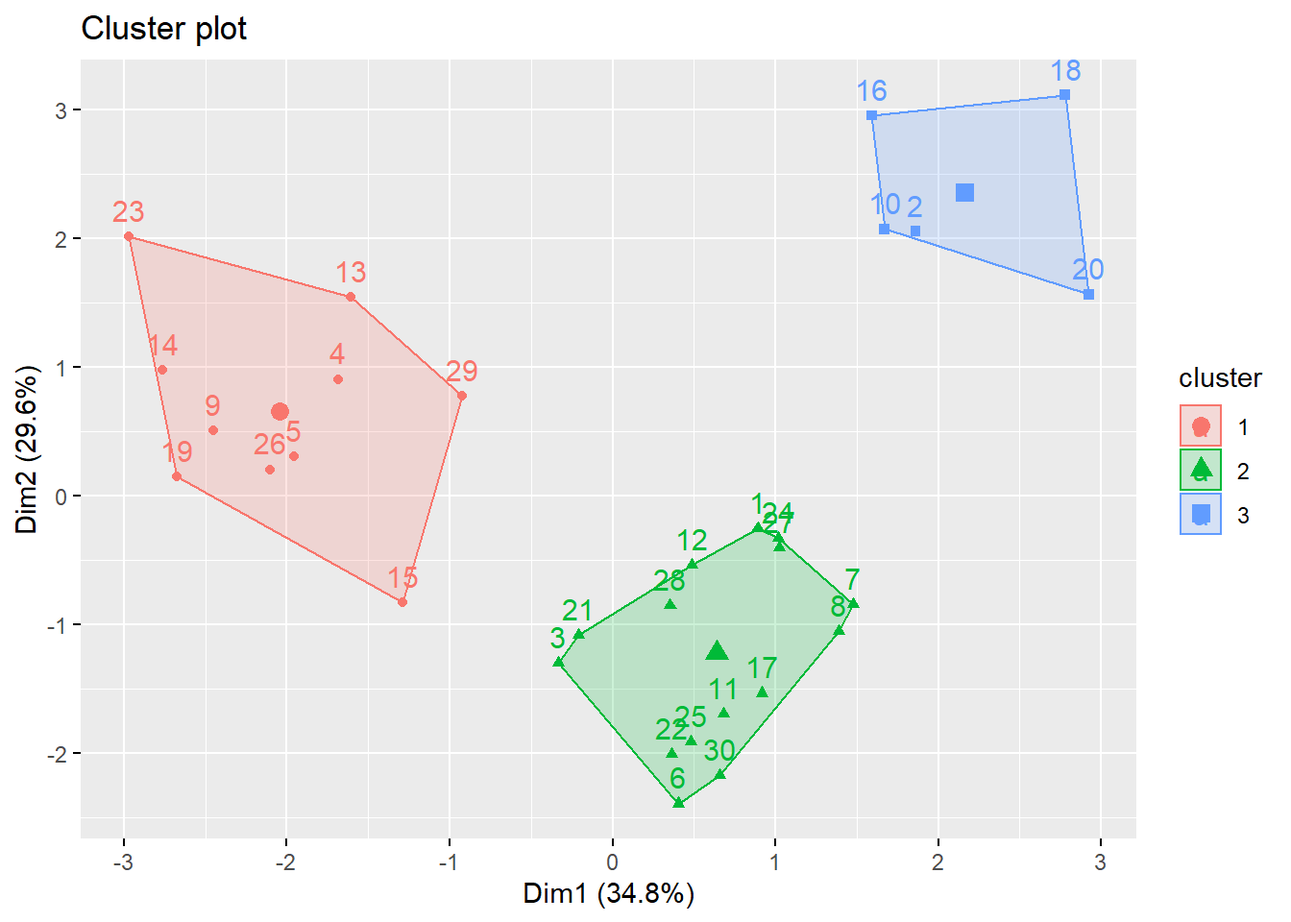
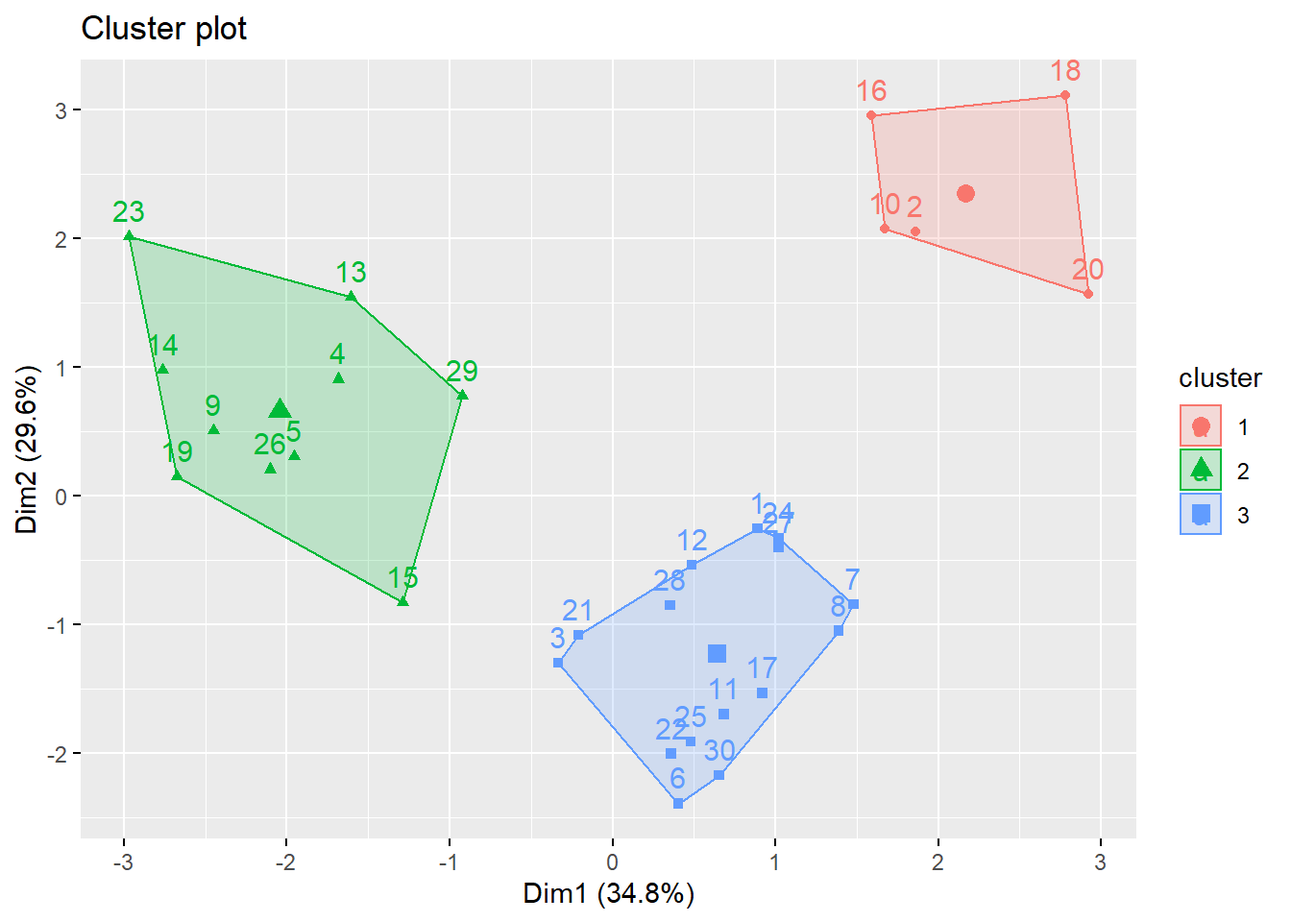
updatao em homenagem ao nosso amigao ygor

Changed region(s): [[0.0938, 0.2188, 0.375, 0.6562], [0.4062, 0.5312, 0.6875, 0.875], [0.6562, 0.0625, 0.875, 0.3125]]

diff --git a/docs/02_data_preparation.html b/docs/02_data_preparation.html
@@ -531,6 +531,111 @@ $(document).ready(function () {
 <a class="sourceLine" id="cb8-41" title="41">  <span class="kw">return</span>(output)</a>
 <a class="sourceLine" id="cb8-42" title="42">  </a>
 <a class="sourceLine" id="cb8-43" title="43">}</a></code></pre></div>
+<p>A função abaixo foi criada para exibir as estatísticas das respostas do dataset.</p>
+<div class="sourceCode" id="cb9"><pre class="sourceCode r"><code class="sourceCode r"><a class="sourceLine" id="cb9-1" title="1">plot_exploratory_analysis &lt;-<span class="st"> </span><span class="cf">function</span>(target_data) {</a>
+<a class="sourceLine" id="cb9-2" title="2">  </a>
+<a class="sourceLine" id="cb9-3" title="3">  ds_aceitar_convite  &lt;-<span class="st"> </span>target_data <span class="op">%&gt;%</span><span class="st"> </span></a>
+<a class="sourceLine" id="cb9-4" title="4"><span class="st">    </span><span class="kw">group_by</span>(<span class="dt">escala =</span> aceitar_convite) <span class="op">%&gt;%</span><span class="st"> </span></a>
+<a class="sourceLine" id="cb9-5" title="5"><span class="st">    </span><span class="kw">summarize</span>(<span class="dt">total_aceitar_convite =</span> <span class="kw">n</span>()) </a>
+<a class="sourceLine" id="cb9-6" title="6">  ds_gostar_doces     &lt;-<span class="st"> </span>target_data <span class="op">%&gt;%</span><span class="st"> </span></a>
+<a class="sourceLine" id="cb9-7" title="7"><span class="st">    </span><span class="kw">group_by</span>(<span class="dt">escala =</span> gostar_doces) <span class="op">%&gt;%</span><span class="st"> </span></a>
+<a class="sourceLine" id="cb9-8" title="8"><span class="st">    </span><span class="kw">summarize</span>(<span class="dt">total_gostar_doces =</span> <span class="kw">n</span>()) </a>
+<a class="sourceLine" id="cb9-9" title="9">  ds_emocionar        &lt;-<span class="st"> </span>target_data <span class="op">%&gt;%</span><span class="st"> </span></a>
+<a class="sourceLine" id="cb9-10" title="10"><span class="st">    </span><span class="kw">group_by</span>(<span class="dt">escala =</span> emocionar) <span class="op">%&gt;%</span><span class="st"> </span></a>
+<a class="sourceLine" id="cb9-11" title="11"><span class="st">    </span><span class="kw">summarize</span>(<span class="dt">total_emocionar =</span> <span class="kw">n</span>()) </a>
+<a class="sourceLine" id="cb9-12" title="12">  ds_conhecer_pessoas &lt;-<span class="st"> </span>target_data <span class="op">%&gt;%</span><span class="st"> </span></a>
+<a class="sourceLine" id="cb9-13" title="13"><span class="st">    </span><span class="kw">group_by</span>(<span class="dt">escala =</span> conhecer_pessoas) <span class="op">%&gt;%</span><span class="st"> </span></a>
+<a class="sourceLine" id="cb9-14" title="14"><span class="st">    </span><span class="kw">summarize</span>(<span class="dt">total_conhecer_pessoas =</span> <span class="kw">n</span>()) </a>
+<a class="sourceLine" id="cb9-15" title="15">  ds_diversao_amigos  &lt;-<span class="st"> </span>target_data <span class="op">%&gt;%</span><span class="st"> </span></a>
+<a class="sourceLine" id="cb9-16" title="16"><span class="st">    </span><span class="kw">group_by</span>(<span class="dt">escala =</span> diversao_amigos) <span class="op">%&gt;%</span><span class="st"> </span></a>
+<a class="sourceLine" id="cb9-17" title="17"><span class="st">    </span><span class="kw">summarize</span>(<span class="dt">total_diversao_amigos =</span> <span class="kw">n</span>()) </a>
+<a class="sourceLine" id="cb9-18" title="18">  ds_gostar_fotos     &lt;-<span class="st"> </span>target_data <span class="op">%&gt;%</span><span class="st"> </span></a>
+<a class="sourceLine" id="cb9-19" title="19"><span class="st">    </span><span class="kw">group_by</span>(<span class="dt">escala =</span> gostar_fotos) <span class="op">%&gt;%</span><span class="st"> </span></a>
+<a class="sourceLine" id="cb9-20" title="20"><span class="st">    </span><span class="kw">summarize</span>(<span class="dt">total_gostar_fotos =</span> <span class="kw">n</span>()) </a>
+<a class="sourceLine" id="cb9-21" title="21">  ds_cansar_cerimonia &lt;-<span class="st"> </span>target_data <span class="op">%&gt;%</span><span class="st"> </span></a>
+<a class="sourceLine" id="cb9-22" title="22"><span class="st">    </span><span class="kw">group_by</span>(<span class="dt">escala =</span> cansar_cerimonia) <span class="op">%&gt;%</span><span class="st"> </span></a>
+<a class="sourceLine" id="cb9-23" title="23"><span class="st">    </span><span class="kw">summarize</span>(<span class="dt">total_cansar_cerimonia =</span> <span class="kw">n</span>()) </a>
+<a class="sourceLine" id="cb9-24" title="24">  ds_casamento_civil  &lt;-<span class="st"> </span>target_data <span class="op">%&gt;%</span><span class="st"> </span></a>
+<a class="sourceLine" id="cb9-25" title="25"><span class="st">    </span><span class="kw">group_by</span>(<span class="dt">escala =</span> casamento_civil) <span class="op">%&gt;%</span><span class="st"> </span></a>
+<a class="sourceLine" id="cb9-26" title="26"><span class="st">    </span><span class="kw">summarize</span>(<span class="dt">total_casamento_civil =</span> <span class="kw">n</span>()) </a>
+<a class="sourceLine" id="cb9-27" title="27">  </a>
+<a class="sourceLine" id="cb9-28" title="28">  plot_aceitar_convite &lt;-<span class="st"> </span><span class="kw">ggplot</span>(ds_aceitar_convite, </a>
+<a class="sourceLine" id="cb9-29" title="29">                                 <span class="kw">aes</span>(<span class="dt">x =</span> escala, <span class="dt">y =</span> total_aceitar_convite)) <span class="op">+</span></a>
+<a class="sourceLine" id="cb9-30" title="30"><span class="st">    </span><span class="kw">geom_bar</span>(<span class="dt">stat =</span> <span class="st">&quot;identity&quot;</span>, <span class="dt">width =</span> <span class="fl">.5</span>, <span class="dt">fill =</span> <span class="st">&quot;brown1&quot;</span>) <span class="op">+</span></a>
+<a class="sourceLine" id="cb9-31" title="31"><span class="st">    </span><span class="kw">labs</span>(<span class="dt">title =</span> <span class="st">&quot;Sempre aceito convites&quot;</span>, </a>
+<a class="sourceLine" id="cb9-32" title="32">         <span class="dt">subtitle =</span> <span class="st">&quot;1 (discordo totalmente) a 5 (concordo totalmente)&quot;</span>,</a>
+<a class="sourceLine" id="cb9-33" title="33">         <span class="dt">y =</span> <span class="st">&#39;&#39;</span>) <span class="op">+</span></a>
+<a class="sourceLine" id="cb9-34" title="34"><span class="st">    </span><span class="kw">theme</span>(<span class="dt">plot.subtitle =</span> <span class="kw">element_text</span>(<span class="dt">size =</span> <span class="dv">6</span>))</a>
+<a class="sourceLine" id="cb9-35" title="35">  </a>
+<a class="sourceLine" id="cb9-36" title="36">  plot_gostar_doces &lt;-<span class="st"> </span><span class="kw">ggplot</span>(ds_gostar_doces, </a>
+<a class="sourceLine" id="cb9-37" title="37">                              <span class="kw">aes</span>(<span class="dt">x =</span> escala, <span class="dt">y =</span> total_gostar_doces)) <span class="op">+</span></a>
+<a class="sourceLine" id="cb9-38" title="38"><span class="st">    </span><span class="kw">geom_bar</span>(<span class="dt">stat=</span><span class="st">&quot;identity&quot;</span>, <span class="dt">width =</span> <span class="fl">.5</span>, <span class="dt">fill =</span> <span class="st">&quot;cadetblue&quot;</span>) <span class="op">+</span></a>
+<a class="sourceLine" id="cb9-39" title="39"><span class="st">    </span><span class="kw">labs</span>(<span class="dt">title =</span> <span class="st">&quot;O melhor são os doces&quot;</span>, </a>
+<a class="sourceLine" id="cb9-40" title="40">         <span class="dt">subtitle =</span> <span class="st">&quot;1 (discordo totalmente) a 5 (concordo totalmente)&quot;</span>,</a>
+<a class="sourceLine" id="cb9-41" title="41">         <span class="dt">y =</span> <span class="st">&#39;&#39;</span>) <span class="op">+</span></a>
+<a class="sourceLine" id="cb9-42" title="42"><span class="st">    </span><span class="kw">theme</span>(<span class="dt">plot.subtitle =</span> <span class="kw">element_text</span>(<span class="dt">size =</span> <span class="dv">6</span>))</a>
+<a class="sourceLine" id="cb9-43" title="43">  </a>
+<a class="sourceLine" id="cb9-44" title="44">  plot_emocionar &lt;-<span class="st"> </span><span class="kw">ggplot</span>(ds_emocionar, </a>
+<a class="sourceLine" id="cb9-45" title="45">                           <span class="kw">aes</span>(<span class="dt">x =</span> escala, <span class="dt">y =</span> total_emocionar)) <span class="op">+</span></a>
+<a class="sourceLine" id="cb9-46" title="46"><span class="st">    </span><span class="kw">geom_bar</span>(<span class="dt">stat=</span><span class="st">&quot;identity&quot;</span>, <span class="dt">width =</span> <span class="fl">.5</span>, <span class="dt">fill =</span> <span class="st">&quot;chocolate&quot;</span>) <span class="op">+</span></a>
+<a class="sourceLine" id="cb9-47" title="47"><span class="st">    </span><span class="kw">labs</span>(<span class="dt">title =</span> <span class="st">&quot;Me emociono com casamentos&quot;</span>, </a>
+<a class="sourceLine" id="cb9-48" title="48">         <span class="dt">subtitle =</span> <span class="st">&quot;1 (discordo totalmente) a 5 (concordo totalmente)&quot;</span>,</a>
+<a class="sourceLine" id="cb9-49" title="49">         <span class="dt">y =</span> <span class="st">&#39;&#39;</span>) <span class="op">+</span></a>
+<a class="sourceLine" id="cb9-50" title="50"><span class="st">    </span><span class="kw">theme</span>(<span class="dt">plot.subtitle =</span> <span class="kw">element_text</span>(<span class="dt">size =</span> <span class="dv">6</span>))</a>
+<a class="sourceLine" id="cb9-51" title="51">  </a>
+<a class="sourceLine" id="cb9-52" title="52">  plot_conhecer_pessoas &lt;-<span class="st"> </span><span class="kw">ggplot</span>(ds_conhecer_pessoas, </a>
+<a class="sourceLine" id="cb9-53" title="53">                                  <span class="kw">aes</span>(<span class="dt">x =</span> escala, <span class="dt">y =</span> total_conhecer_pessoas)) <span class="op">+</span></a>
+<a class="sourceLine" id="cb9-54" title="54"><span class="st">    </span><span class="kw">geom_bar</span>(<span class="dt">stat=</span><span class="st">&quot;identity&quot;</span>, <span class="dt">width =</span> <span class="fl">.5</span>, <span class="dt">fill =</span> <span class="st">&quot;cornflowerblue&quot;</span>) <span class="op">+</span></a>
+<a class="sourceLine" id="cb9-55" title="55"><span class="st">    </span><span class="kw">labs</span>(<span class="dt">title =</span> <span class="st">&quot;Oportunidade de conhecer pessoas&quot;</span>, </a>
+<a class="sourceLine" id="cb9-56" title="56">         <span class="dt">subtitle =</span> <span class="st">&quot;1 (discordo totalmente) a 5 (concordo totalmente)&quot;</span>,</a>
+<a class="sourceLine" id="cb9-57" title="57">         <span class="dt">y =</span> <span class="st">&#39;&#39;</span>) <span class="op">+</span></a>
+<a class="sourceLine" id="cb9-58" title="58"><span class="st">    </span><span class="kw">theme</span>(<span class="dt">plot.subtitle =</span> <span class="kw">element_text</span>(<span class="dt">size =</span> <span class="dv">6</span>))</a>
+<a class="sourceLine" id="cb9-59" title="59">  </a>
+<a class="sourceLine" id="cb9-60" title="60">  plot_diversao_amigos &lt;-<span class="st"> </span><span class="kw">ggplot</span>(ds_diversao_amigos, </a>
+<a class="sourceLine" id="cb9-61" title="61">                                 <span class="kw">aes</span>(<span class="dt">x =</span> escala, <span class="dt">y =</span> total_diversao_amigos)) <span class="op">+</span></a>
+<a class="sourceLine" id="cb9-62" title="62"><span class="st">    </span><span class="kw">geom_bar</span>(<span class="dt">stat =</span> <span class="st">&quot;identity&quot;</span>, <span class="dt">width =</span> <span class="fl">.5</span>, <span class="dt">fill =</span> <span class="st">&quot;darkorchid&quot;</span>) <span class="op">+</span></a>
+<a class="sourceLine" id="cb9-63" title="63"><span class="st">    </span><span class="kw">labs</span>(<span class="dt">title =</span> <span class="st">&quot;Me divirto com amigos&quot;</span>, </a>
+<a class="sourceLine" id="cb9-64" title="64">         <span class="dt">subtitle =</span> <span class="st">&quot;1 (discordo totalmente) a 5 (concordo totalmente)&quot;</span>,</a>
+<a class="sourceLine" id="cb9-65" title="65">         <span class="dt">y =</span> <span class="st">&#39;&#39;</span>) <span class="op">+</span></a>
+<a class="sourceLine" id="cb9-66" title="66"><span class="st">    </span><span class="kw">theme</span>(<span class="dt">plot.subtitle =</span> <span class="kw">element_text</span>(<span class="dt">size =</span> <span class="dv">6</span>))</a>
+<a class="sourceLine" id="cb9-67" title="67">  </a>
+<a class="sourceLine" id="cb9-68" title="68">  plot_gostar_fotos &lt;-<span class="st"> </span><span class="kw">ggplot</span>(ds_gostar_fotos, </a>
+<a class="sourceLine" id="cb9-69" title="69">                              <span class="kw">aes</span>(<span class="dt">x =</span> escala, <span class="dt">y =</span> total_gostar_fotos)) <span class="op">+</span></a>
+<a class="sourceLine" id="cb9-70" title="70"><span class="st">    </span><span class="kw">geom_bar</span>(<span class="dt">stat=</span><span class="st">&quot;identity&quot;</span>, <span class="dt">width =</span> <span class="fl">.5</span>, <span class="dt">fill =</span> <span class="st">&quot;aquamarine4&quot;</span>) <span class="op">+</span></a>
+<a class="sourceLine" id="cb9-71" title="71"><span class="st">    </span><span class="kw">labs</span>(<span class="dt">title =</span> <span class="st">&quot;Gosto de vídeos e fotos&quot;</span>, </a>
+<a class="sourceLine" id="cb9-72" title="72">         <span class="dt">subtitle =</span> <span class="st">&quot;1 (discordo totalmente) a 5 (concordo totalmente)&quot;</span>,</a>
+<a class="sourceLine" id="cb9-73" title="73">         <span class="dt">y =</span> <span class="st">&#39;&#39;</span>) <span class="op">+</span></a>
+<a class="sourceLine" id="cb9-74" title="74"><span class="st">    </span><span class="kw">theme</span>(<span class="dt">plot.subtitle =</span> <span class="kw">element_text</span>(<span class="dt">size =</span> <span class="dv">6</span>))</a>
+<a class="sourceLine" id="cb9-75" title="75">  </a>
+<a class="sourceLine" id="cb9-76" title="76">  plot_cansar_cerimonia &lt;-<span class="st"> </span><span class="kw">ggplot</span>(ds_cansar_cerimonia, </a>
+<a class="sourceLine" id="cb9-77" title="77">                                  <span class="kw">aes</span>(<span class="dt">x =</span> escala, <span class="dt">y =</span> total_cansar_cerimonia)) <span class="op">+</span></a>
+<a class="sourceLine" id="cb9-78" title="78"><span class="st">    </span><span class="kw">geom_bar</span>(<span class="dt">stat=</span><span class="st">&quot;identity&quot;</span>, <span class="dt">width =</span> <span class="fl">.5</span>, <span class="dt">fill =</span> <span class="st">&quot;darkmagenta&quot;</span>) <span class="op">+</span></a>
+<a class="sourceLine" id="cb9-79" title="79"><span class="st">    </span><span class="kw">labs</span>(<span class="dt">title =</span> <span class="st">&quot;Cerimônias longas me cansam&quot;</span>, </a>
+<a class="sourceLine" id="cb9-80" title="80">         <span class="dt">subtitle =</span> <span class="st">&quot;1 (discordo totalmente) a 5 (concordo totalmente)&quot;</span>,</a>
+<a class="sourceLine" id="cb9-81" title="81">         <span class="dt">y =</span> <span class="st">&#39;&#39;</span>) <span class="op">+</span></a>
+<a class="sourceLine" id="cb9-82" title="82"><span class="st">    </span><span class="kw">theme</span>(<span class="dt">plot.subtitle =</span> <span class="kw">element_text</span>(<span class="dt">size =</span> <span class="dv">6</span>))</a>
+<a class="sourceLine" id="cb9-83" title="83">  </a>
+<a class="sourceLine" id="cb9-84" title="84">  plot_casamento_civil &lt;-<span class="st"> </span><span class="kw">ggplot</span>(ds_casamento_civil, </a>
+<a class="sourceLine" id="cb9-85" title="85">                                 <span class="kw">aes</span>(<span class="dt">x =</span> escala, <span class="dt">y =</span> total_casamento_civil)) <span class="op">+</span></a>
+<a class="sourceLine" id="cb9-86" title="86"><span class="st">    </span><span class="kw">geom_bar</span>(<span class="dt">stat=</span><span class="st">&quot;identity&quot;</span>, <span class="dt">width =</span> <span class="fl">.5</span>, <span class="dt">fill =</span> <span class="st">&quot;tomato3&quot;</span>) <span class="op">+</span></a>
+<a class="sourceLine" id="cb9-87" title="87"><span class="st">    </span><span class="kw">labs</span>(<span class="dt">title =</span> <span class="st">&quot;Casamento no civil não vale&quot;</span>, </a>
+<a class="sourceLine" id="cb9-88" title="88">         <span class="dt">subtitle =</span> <span class="st">&quot;1 (discordo totalmente) a 5 (concordo totalmente)&quot;</span>,</a>
+<a class="sourceLine" id="cb9-89" title="89">         <span class="dt">y =</span> <span class="st">&#39;&#39;</span>) <span class="op">+</span></a>
+<a class="sourceLine" id="cb9-90" title="90"><span class="st">    </span><span class="kw">theme</span>(<span class="dt">plot.subtitle =</span> <span class="kw">element_text</span>(<span class="dt">size =</span> <span class="dv">6</span>))</a>
+<a class="sourceLine" id="cb9-91" title="91">  </a>
+<a class="sourceLine" id="cb9-92" title="92">  <span class="kw">ggarrange</span>(plot_aceitar_convite,</a>
+<a class="sourceLine" id="cb9-93" title="93">            plot_gostar_doces, </a>
+<a class="sourceLine" id="cb9-94" title="94">            plot_emocionar,</a>
+<a class="sourceLine" id="cb9-95" title="95">            plot_conhecer_pessoas,</a>
+<a class="sourceLine" id="cb9-96" title="96">            plot_diversao_amigos,</a>
+<a class="sourceLine" id="cb9-97" title="97">            plot_gostar_fotos,</a>
+<a class="sourceLine" id="cb9-98" title="98">            plot_cansar_cerimonia,</a>
+<a class="sourceLine" id="cb9-99" title="99">            plot_casamento_civil,</a>
+<a class="sourceLine" id="cb9-100" title="100">            <span class="dt">ncol =</span> <span class="dv">2</span>, </a>
+<a class="sourceLine" id="cb9-101" title="101">            <span class="dt">nrow =</span> <span class="dv">4</span>,</a>
+<a class="sourceLine" id="cb9-102" title="102">            <span class="dt">label.y =</span> <span class="st">&#39;&#39;</span>,</a>
+<a class="sourceLine" id="cb9-103" title="103">            <span class="dt">common.legend =</span> <span class="ot">TRUE</span>)</a>
+<a class="sourceLine" id="cb9-104" title="104">}</a></code></pre></div>
 </div>
 
 

diff --git a/docs/conclusion.html b/docs/conclusion.html
@@ -25,6 +25,96 @@
 <link href="site_libs/font-awesome-5.1.0/css/v4-shims.css" rel="stylesheet" />
 
 
+<style type="text/css">code{white-space: pre;}</style>
+<style type="text/css" data-origin="pandoc">
+a.sourceLine { display: inline-block; line-height: 1.25; }
+a.sourceLine { pointer-events: none; color: inherit; text-decoration: inherit; }
+a.sourceLine:empty { height: 1.2em; }
+.sourceCode { overflow: visible; }
+code.sourceCode { white-space: pre; position: relative; }
+div.sourceCode { margin: 1em 0; }
+pre.sourceCode { margin: 0; }
+@media screen {
+div.sourceCode { overflow: auto; }
+}
+@media print {
+code.sourceCode { white-space: pre-wrap; }
+a.sourceLine { text-indent: -1em; padding-left: 1em; }
+}
+pre.numberSource a.sourceLine
+  { position: relative; left: -4em; }
+pre.numberSource a.sourceLine::before
+  { content: attr(title);
+    position: relative; left: -1em; text-align: right; vertical-align: baseline;
+    border: none; pointer-events: all; display: inline-block;
+    -webkit-touch-callout: none; -webkit-user-select: none;
+    -khtml-user-select: none; -moz-user-select: none;
+    -ms-user-select: none; user-select: none;
+    padding: 0 4px; width: 4em;
+    color: #aaaaaa;
+  }
+pre.numberSource { margin-left: 3em; border-left: 1px solid #aaaaaa;  padding-left: 4px; }
+div.sourceCode
+  { background-color: #f8f8f8; }
+@media screen {
+a.sourceLine::before { text-decoration: underline; }
+}
+code span.al { color: #ef2929; } /* Alert */
+code span.an { color: #8f5902; font-weight: bold; font-style: italic; } /* Annotation */
+code span.at { color: #c4a000; } /* Attribute */
+code span.bn { color: #0000cf; } /* BaseN */
+code span.cf { color: #204a87; font-weight: bold; } /* ControlFlow */
+code span.ch { color: #4e9a06; } /* Char */
+code span.cn { color: #000000; } /* Constant */
+code span.co { color: #8f5902; font-style: italic; } /* Comment */
+code span.cv { color: #8f5902; font-weight: bold; font-style: italic; } /* CommentVar */
+code span.do { color: #8f5902; font-weight: bold; font-style: italic; } /* Documentation */
+code span.dt { color: #204a87; } /* DataType */
+code span.dv { color: #0000cf; } /* DecVal */
+code span.er { color: #a40000; font-weight: bold; } /* Error */
+code span.ex { } /* Extension */
+code span.fl { color: #0000cf; } /* Float */
+code span.fu { color: #000000; } /* Function */
+code span.im { } /* Import */
+code span.in { color: #8f5902; font-weight: bold; font-style: italic; } /* Information */
+code span.kw { color: #204a87; font-weight: bold; } /* Keyword */
+code span.op { color: #ce5c00; font-weight: bold; } /* Operator */
+code span.ot { color: #8f5902; } /* Other */
+code span.pp { color: #8f5902; font-style: italic; } /* Preprocessor */
+code span.sc { color: #000000; } /* SpecialChar */
+code span.ss { color: #4e9a06; } /* SpecialString */
+code span.st { color: #4e9a06; } /* String */
+code span.va { color: #000000; } /* Variable */
+code span.vs { color: #4e9a06; } /* VerbatimString */
+code span.wa { color: #8f5902; font-weight: bold; font-style: italic; } /* Warning */
+
+</style>
+<script>
+// apply pandoc div.sourceCode style to pre.sourceCode instead
+(function() {
+  var sheets = document.styleSheets;
+  for (var i = 0; i < sheets.length; i++) {
+    if (sheets[i].ownerNode.dataset["origin"] !== "pandoc") continue;
+    try { var rules = sheets[i].cssRules; } catch (e) { continue; }
+    for (var j = 0; j < rules.length; j++) {
+      var rule = rules[j];
+      // check if there is a div.sourceCode rule
+      if (rule.type !== rule.STYLE_RULE || rule.selectorText !== "div.sourceCode") continue;
+      var style = rule.style.cssText;
+      // check if color or background-color is set
+      if (rule.style.color === '' && rule.style.backgroundColor === '') continue;
+      // replace div.sourceCode by a pre.sourceCode rule
+      sheets[i].deleteRule(j);
+      sheets[i].insertRule('pre.sourceCode{' + style + '}', j);
+    }
+  }
+})();
+</script>
+<style type="text/css">
+  pre:not([class]) {
+    background-color: white;
+  }
+</style>
 
 
 <style type="text/css">
@@ -359,20 +449,58 @@ $(document).ready(function () {
 </div>
 <div id="d-faça-cluster-analysis-método-hierárquico-agnes-com-as-variáveis-assinaladas-em-vermelho.-use-distância-euclidiana.-use-ward-e-average-compare-os-resultados-utilizando-as-métricas-que-você-aprendeu-da-função-cluster.stats-do-pacote-fpc." class="section level3">
 <h3><strong>d) Faça Cluster Analysis (Método Hierárquico AGNES) com as variáveis assinaladas em vermelho. Use distância euclidiana. Use Ward e Average (compare os resultados utilizando as métricas que você aprendeu da função cluster.stats do pacote fpc).</strong></h3>
+<p>Conforme apresentado no <a href="https://ldaniel.github.io/Matrix-Methods-Cluster-Analysis/04_clusters_exploration.html">Relatório de Exploração dos Clusters</a>, utilizando o método <strong>ward</strong> temos a melhor divisão de cluster em <strong>3</strong>.</p>
+<p><strong>Dendrograma utilizando o método ward</strong> <img src="https://ldaniel.github.io/Matrix-Methods-Cluster-Analysis/04_clusters_exploration_files/figure-html/generating_AGNES_viz_2_ward-1.png" /></p>
+<p>Utilizando o método <strong>average</strong>, embora não fique tão evidente, também temos a melhor divisão de cluster em <strong>3</strong>.</p>
+<p><strong>Dendrograma utilizando o método average</strong> <img src="https://ldaniel.github.io/Matrix-Methods-Cluster-Analysis/04_clusters_exploration_files/figure-html/generating_AGNES_viz_2_average-1.png" /></p>
+<p>Embora os métodos sejam diferentes, como eles classificaram as observações nos mesmos clusteres, as métricas resultantes utilizando a função <strong>cluster.stats</strong> do pacote <strong>fpc</strong> foram exatamente iguais.</p>
+<p>Vale lembrar que a decisão de número de clusters também impacta no resultado das métricas. Importante salientar que, embora todos os métodos tenham obtido os mesmos resultados, isso não significa que com outras observações o resultado também seria o mesmo.</p>
 </div>
 <div id="e-quantos-grupos-foram-obtidos" class="section level3">
 <h3><strong>e) Quantos grupos foram obtidos?</strong></h3>
-<p>Em ambos os algoritimos a melhor quantidade de clusrtes foi 3.</p>
+<p>Em todos os algoritimos a melhor quantidade de clusters foi 3.</p>
 </div>
 <div id="f-interprete-os-grupos-assim-formados-usando-somente-as-variáveis-assinaladas-em-vermelho." class="section level3">
 <h3><strong>f) Interprete os grupos assim formados, usando somente as variáveis assinaladas em vermelho.</strong></h3>
+<p><strong>Cluster 1</strong>: Abaixo as respostas das observações classificadas no cluster 1:</p>
+<p><img src="https://raw.githubusercontent.com/ldaniel/Matrix-Methods-Cluster-Analysis/master/images/cluster_1.png" /></p>
+<p><strong>Cluster 2</strong>: Abaixo as respostas das observações classificadas no cluster 1:</p>
+<p><img src="https://raw.githubusercontent.com/ldaniel/Matrix-Methods-Cluster-Analysis/master/images/cluster_2.png" /></p>
+<p><strong>Cluster 3</strong>: Abaixo as respostas das observações classificadas no cluster 1:</p>
+<p><img src="https://raw.githubusercontent.com/ldaniel/Matrix-Methods-Cluster-Analysis/master/images/cluster_3.png" /></p>
 </div>
 <div id="g-verifique-se-sexo-ou-idade-discriminam-bem-os-grupos." class="section level3">
 <h3><strong>g) Verifique se sexo ou idade discriminam bem os grupos.</strong></h3>
+<p><strong>Idade</strong>: conforme podemos observar existe sim uma nítida diferença na idade média dos entrevistados classificados no cluster 1 em comparação com os demais clusters.</p>
+<p>A idade do cluster 1 é de aproximadamente 4 anos de diferença.</p>
+<div class="sourceCode" id="cb1"><pre class="sourceCode r"><code class="sourceCode r"><a class="sourceLine" id="cb1-1" title="1"><span class="kw">ggplot</span>(<span class="dt">data =</span> target_data) <span class="op">+</span></a>
+<a class="sourceLine" id="cb1-2" title="2"><span class="st">  </span><span class="kw">geom_boxplot</span>(<span class="kw">aes</span>(<span class="dt">y =</span> idade)) <span class="op">+</span></a>
+<a class="sourceLine" id="cb1-3" title="3"><span class="st">  </span><span class="kw">facet_wrap</span>(<span class="op">~</span>cluster_id) <span class="op">+</span></a>
+<a class="sourceLine" id="cb1-4" title="4"><span class="st">  </span><span class="kw">theme</span>(<span class="dt">axis.text.x =</span> <span class="kw">element_blank</span>())</a></code></pre></div>
+<p><img src="conclusion_files/figure-html/data_cluster_idade-1.png" width="672" /></p>
+<p><strong>Sexo</strong>: conforme podemos observar existe sim uma nítida diferença na composição de sexo dos entrevistados classificados no cluster 2 em comparação com os demais clusters.</p>
+<p>No cluster 2, 80% dos entrevistados são do sexo masculino, e nos demais clusters a proporção é mais equilibrada.</p>
+<div class="sourceCode" id="cb2"><pre class="sourceCode r"><code class="sourceCode r"><a class="sourceLine" id="cb2-1" title="1">ds_sexo  &lt;-<span class="st"> </span>target_data <span class="op">%&gt;%</span><span class="st"> </span></a>
+<a class="sourceLine" id="cb2-2" title="2"><span class="st">  </span><span class="kw">group_by</span>(sexo, cluster_id) <span class="op">%&gt;%</span><span class="st"> </span></a>
+<a class="sourceLine" id="cb2-3" title="3"><span class="st">  </span><span class="kw">summarize</span>(<span class="dt">qtd_sexo =</span> <span class="kw">n</span>())</a>
+<a class="sourceLine" id="cb2-4" title="4"></a>
+<a class="sourceLine" id="cb2-5" title="5">ds_cluster &lt;-<span class="st"> </span>target_data <span class="op">%&gt;%</span><span class="st"> </span></a>
+<a class="sourceLine" id="cb2-6" title="6"><span class="st">  </span><span class="kw">group_by</span>(cluster_id) <span class="op">%&gt;%</span><span class="st"> </span></a>
+<a class="sourceLine" id="cb2-7" title="7"><span class="st">  </span><span class="kw">summarise</span>(<span class="dt">qtd_cluster =</span> <span class="kw">n</span>())</a>
+<a class="sourceLine" id="cb2-8" title="8"></a>
+<a class="sourceLine" id="cb2-9" title="9">ds_percent &lt;-<span class="st"> </span><span class="kw">left_join</span>(ds_sexo, ds_cluster, <span class="dt">by =</span> <span class="st">&#39;cluster_id&#39;</span>) <span class="op">%&gt;%</span><span class="st"> </span></a>
+<a class="sourceLine" id="cb2-10" title="10"><span class="st">  </span><span class="kw">mutate</span>(<span class="dt">percent_sexo =</span> qtd_sexo <span class="op">/</span><span class="st"> </span>qtd_cluster)</a>
+<a class="sourceLine" id="cb2-11" title="11"></a>
+<a class="sourceLine" id="cb2-12" title="12"><span class="kw">ggplot</span>(ds_percent, <span class="kw">aes</span>(<span class="dt">x =</span> sexo, <span class="dt">y =</span> percent_sexo, <span class="dt">fill =</span> sexo)) <span class="op">+</span></a>
+<a class="sourceLine" id="cb2-13" title="13"><span class="st">  </span><span class="kw">geom_bar</span>(<span class="dt">stat=</span><span class="st">&quot;identity&quot;</span>, <span class="dt">width =</span> <span class="fl">.5</span>) <span class="op">+</span></a>
+<a class="sourceLine" id="cb2-14" title="14"><span class="st">  </span><span class="kw">labs</span>(<span class="dt">title =</span> <span class="st">&quot;Composição de sexo por Cluster&quot;</span>) <span class="op">+</span></a>
+<a class="sourceLine" id="cb2-15" title="15"><span class="st">  </span><span class="kw">facet_wrap</span>(<span class="op">~</span><span class="st"> </span>cluster_id)</a></code></pre></div>
+<p><img src="conclusion_files/figure-html/data_cluster_sexo-1.png" width="672" /></p>
 </div>
 <div id="h-a-aplicação-do-método-k-means-muda-a-composição-dos-grupos" class="section level3">
 <h3><strong>h) A aplicação do método K-Means muda a composição dos grupos?</strong></h3>
-<p>Não, ambos os métodos classificaram as observações nos mesmos clusters.</p>
+<p>Não, ambos os métodos classificaram as observações nos mesmos clusters para este conjunto de dados.</p>
+<p>Desta maneira todas as métricas de avaliação de clusters se mantem as mesmas.</p>
 </div>
 </div>
 

diff --git a/docs/04_clusters_exploration.html b/docs/04_clusters_exploration.html
@@ -781,23 +781,23 @@ $(document).ready(function () {
 <a class="sourceLine" id="cb21-3" title="3">cluster_kmeans &lt;-<span class="st"> </span><span class="kw">kmeans</span>(target_data, cluster_size, <span class="dt">nstart =</span> <span class="dv">100</span>)</a>
 <a class="sourceLine" id="cb21-4" title="4"></a>
 <a class="sourceLine" id="cb21-5" title="5">cluster_kmeans</a></code></pre></div>
-<pre><code>## K-means clustering with 3 clusters of sizes 10, 15, 5
+<pre><code>## K-means clustering with 3 clusters of sizes 5, 10, 15
 ## 
 ## Cluster means:
 ##   aceitar_convite gostar_doces emocionar conhecer_pessoas diversao_amigos
-## 1        1.800000          2.1       1.4         2.600000        2.400000
-## 2        3.933333          3.8       2.4         3.933333        4.266667
-## 3        4.400000          2.6       4.8         2.600000        2.200000
+## 1        4.400000          2.6       4.8         2.600000        2.200000
+## 2        1.800000          2.1       1.4         2.600000        2.400000
+## 3        3.933333          3.8       2.4         3.933333        4.266667
 ##   gostar_fotos cansar_cerimonia casamento_civil
-## 1          2.6         4.300000        2.000000
-## 2          3.2         4.066667        2.933333
-## 3          3.2         1.600000        4.400000
+## 1          3.2         1.600000        4.400000
+## 2          2.6         4.300000        2.000000
+## 3          3.2         4.066667        2.933333
 ## 
 ## Clustering vector:
-##  [1] 2 3 2 1 1 2 2 2 1 3 2 2 1 1 1 3 2 3 1 3 2 2 1 2 2 1 2 2 1 2
+##  [1] 3 1 3 2 2 3 3 3 2 1 3 3 2 2 2 1 3 1 2 1 3 3 2 3 3 2 3 3 2 3
 ## 
 ## Within cluster sum of squares by cluster:
-## [1] 48.20000 79.06667 20.40000
+## [1] 20.40000 48.20000 79.06667
 ##  (between_SS / total_SS =  55.3 %)
 ## 
 ## Available components:
@@ -823,7 +823,7 @@ $(document).ready(function () {
 ## [1] 3
 ## 
 ## $cluster.size
-## [1] 10 15  5
+## [1]  5 10 15
 ## 
 ## $min.cluster.size
 ## [1] 5
@@ -832,31 +832,31 @@ $(document).ready(function () {
 ## [1] 0
 ## 
 ## $diameter
-## [1] 4.690416 5.291503 4.472136
+## [1] 4.472136 4.690416 5.291503
 ## 
 ## $average.distance
-## [1] 3.206379 3.273186 3.116582
+## [1] 3.116582 3.206379 3.273186
 ## 
 ## $median.distance
-## [1] 3.000000 3.162278 2.995352
+## [1] 2.995352 3.000000 3.162278
 ## 
 ## $separation
-## [1] 2.000000 2.000000 3.605551
+## [1] 3.605551 2.000000 2.000000
 ## 
 ## $average.toother
-## [1] 5.274204 5.109357 5.824446
+## [1] 5.824446 5.274204 5.109357
 ## 
 ## $separation.matrix
 ##          [,1]     [,2]     [,3]
-## [1,] 0.000000 2.000000 4.123106
-## [2,] 2.000000 0.000000 3.605551
-## [3,] 4.123106 3.605551 0.000000
+## [1,] 0.000000 4.123106 3.605551
+## [2,] 4.123106 0.000000 2.000000
+## [3,] 3.605551 2.000000 0.000000
 ## 
 ## $ave.between.matrix
 ##          [,1]     [,2]     [,3]
-## [1,] 0.000000 4.921301 6.332911
-## [2,] 4.921301 0.000000 5.485469
-## [3,] 6.332911 5.485469 0.000000
+## [1,] 0.000000 6.332911 5.485469
+## [2,] 6.332911 0.000000 4.921301
+## [3,] 5.485469 4.921301 0.000000
 ## 
 ## $average.between
 ## [1] 5.331822
@@ -881,7 +881,7 @@ $(document).ready(function () {
 ## 
 ## $clus.avg.silwidths
 ##         1         2         3 
-## 0.3377009 0.3098483 0.4280708 
+## 0.4280708 0.3377009 0.3098483 
 ## 
 ## $avg.silwidth
 ## [1] 0.3388362
@@ -911,7 +911,7 @@ $(document).ready(function () {
 ## [1] 16.69063
 ## 
 ## $cwidegap
-## [1] 2.645751 2.828427 2.645751
+## [1] 2.645751 2.645751 2.828427
 ## 
 ## $widestgap
 ## [1] 2.828427
@@ -925,6 +925,7 @@ $(document).ready(function () {
 ## $vi
 ## NULL</code></pre>
 <p>Na sessão de conclusão responderemos todas as perguntas iniciais do trabalho.</p>
+<p>Finalizando o processo vamos salvar a classificaçao de cada cluster em disco para utilizarmos no conclusão da atividade</p>
 </div>
 </div>
 

diff --git a/docs/03_data_exploration.html b/docs/03_data_exploration.html
@@ -477,6 +477,7 @@ $(document).ready(function () {
 <div id="exploração-inicial-das-respostas-às-afirmações" class="section level2">
 <h2><span class="header-section-number">1.2</span> Exploração inicial das respostas às afirmações</h2>
 <p>Resultados das trinta entrevistas realizadas, pedindo-se para dar uma nota de 1 (discordo totalmente) a 5 (concordo totalmente).</p>
+<p>Pode-se notar que não houve concentração clara de respondentes em alguma opção de pergunta.</p>
 <div class="sourceCode" id="cb3"><pre class="sourceCode r"><code class="sourceCode r"><a class="sourceLine" id="cb3-1" title="1">ds_aceitar_convite  &lt;-<span class="st"> </span>target_data <span class="op">%&gt;%</span><span class="st"> </span></a>
 <a class="sourceLine" id="cb3-2" title="2"><span class="st">  </span><span class="kw">group_by</span>(<span class="dt">escala =</span> aceitar_convite) <span class="op">%&gt;%</span><span class="st"> </span></a>
 <a class="sourceLine" id="cb3-3" title="3"><span class="st">  </span><span class="kw">summarize</span>(<span class="dt">total_aceitar_convite =</span> <span class="kw">n</span>()) </a>
